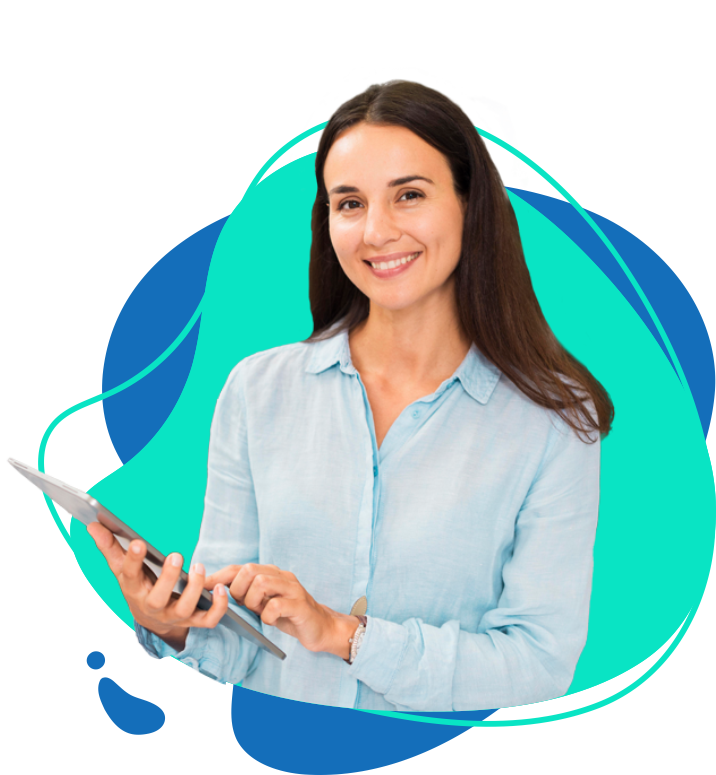
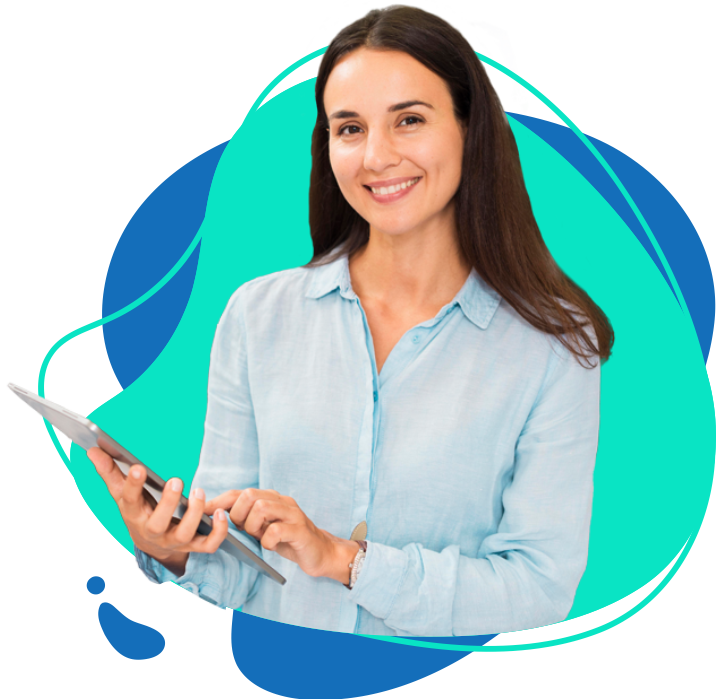
version 1.7

diff --git a/src/components/template/Top.tsx b/src/components/template/Top.tsx
@@ -3,14 +3,14 @@ import Image from 'next/image';
 
 export default function Top() {
     return (
-         <div className="flex justify-center items-center max-w-7xl mx-auto px-4 pt-40 sm:-mt-10 md:-mt-20 lg:-mt-38 lg:-mb-12 xl:-mt-60">
+         <div className="flex justify-center items-center max-w-7xl mx-auto px-4 sm:mt-28 md:-mt-20 lg:-mt-38 lg:-mb-12 xl:-mt-10">
             <div className="grid justify-center place-items-center sm:grid-cols-1 md:grid-cols-2 xl:grid-cols-2 gap-2">
                 <div>
                      <h1 className="text-blue font-mt font-bold text-tth1 mb-4 text-left">Preserve a qualidade, os valores<br/>e a cultura da sua empresa, mesmo em home office.</h1>
                      <p className="text-titles text-2xftsqr font-pp text-left">Diminua gastos com aluguéis, infraestrutura e deslocamente. Faça entrevistas, contrate e <strong>treine</strong> toda a sua equipe,<br/>através da internet.</p>
                 </div>
                 <div>
-                    <Image src="/images/topo_modeloii.png" width={412}  height={448}></Image>                  
+                    <Image src="/images/topo_modeloii.png" width={366}  height={349}></Image>                  
                 </div>
             </div>
         </div>
